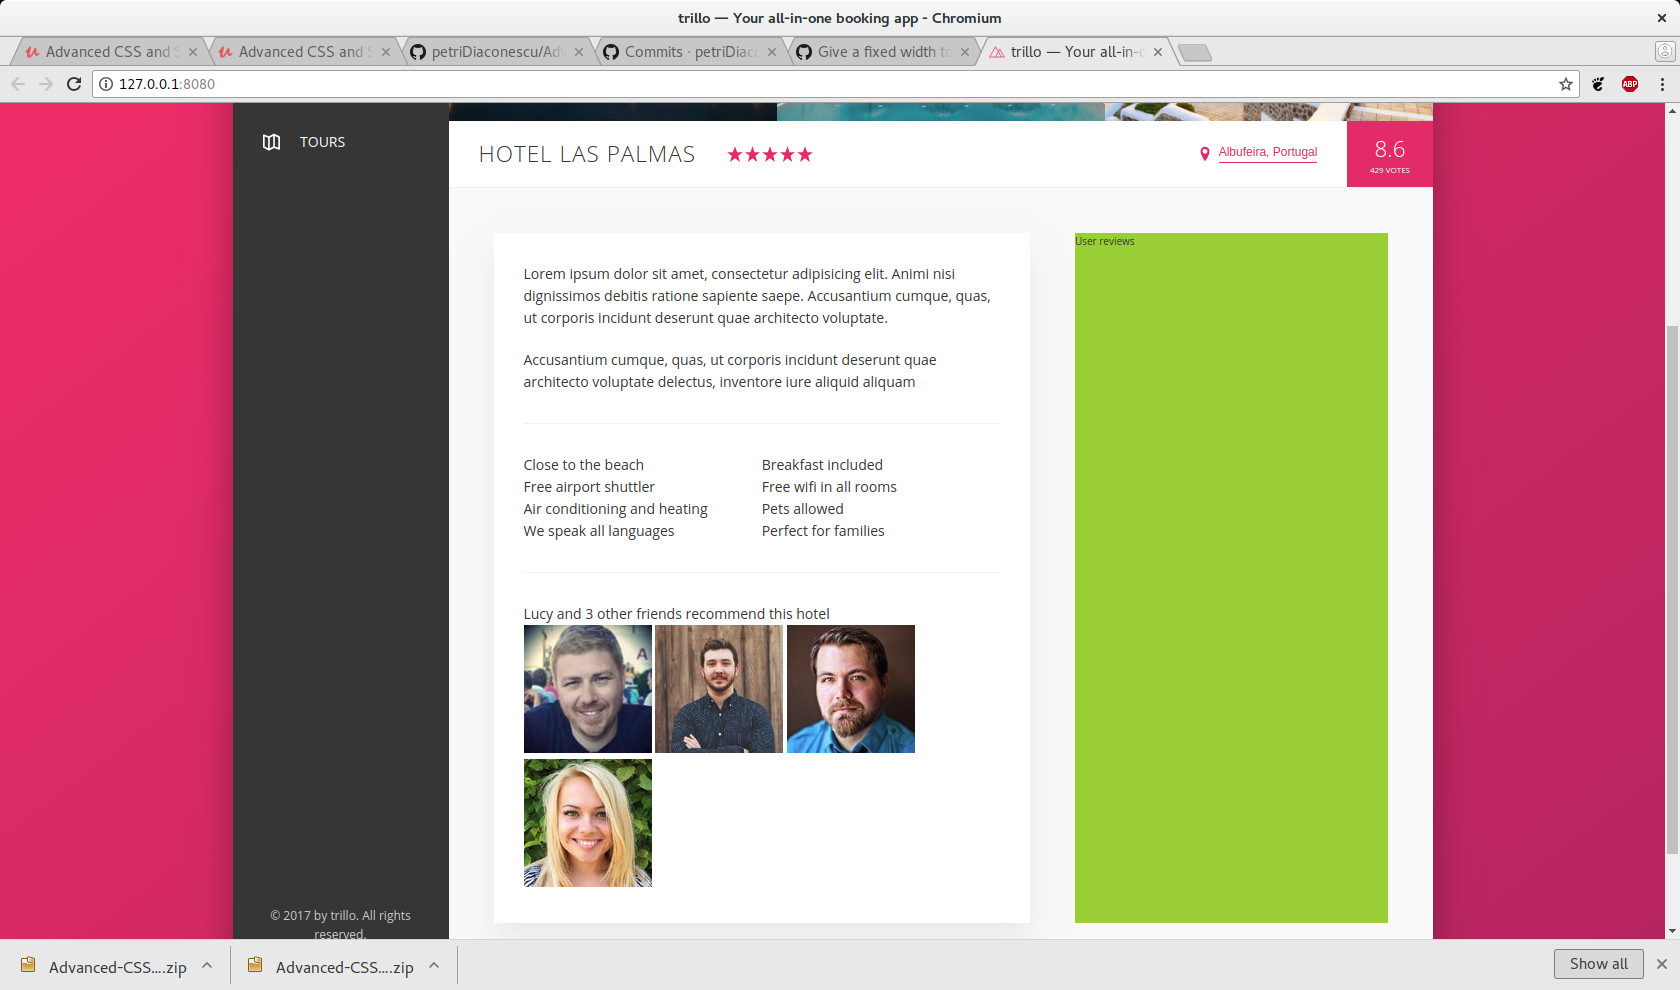
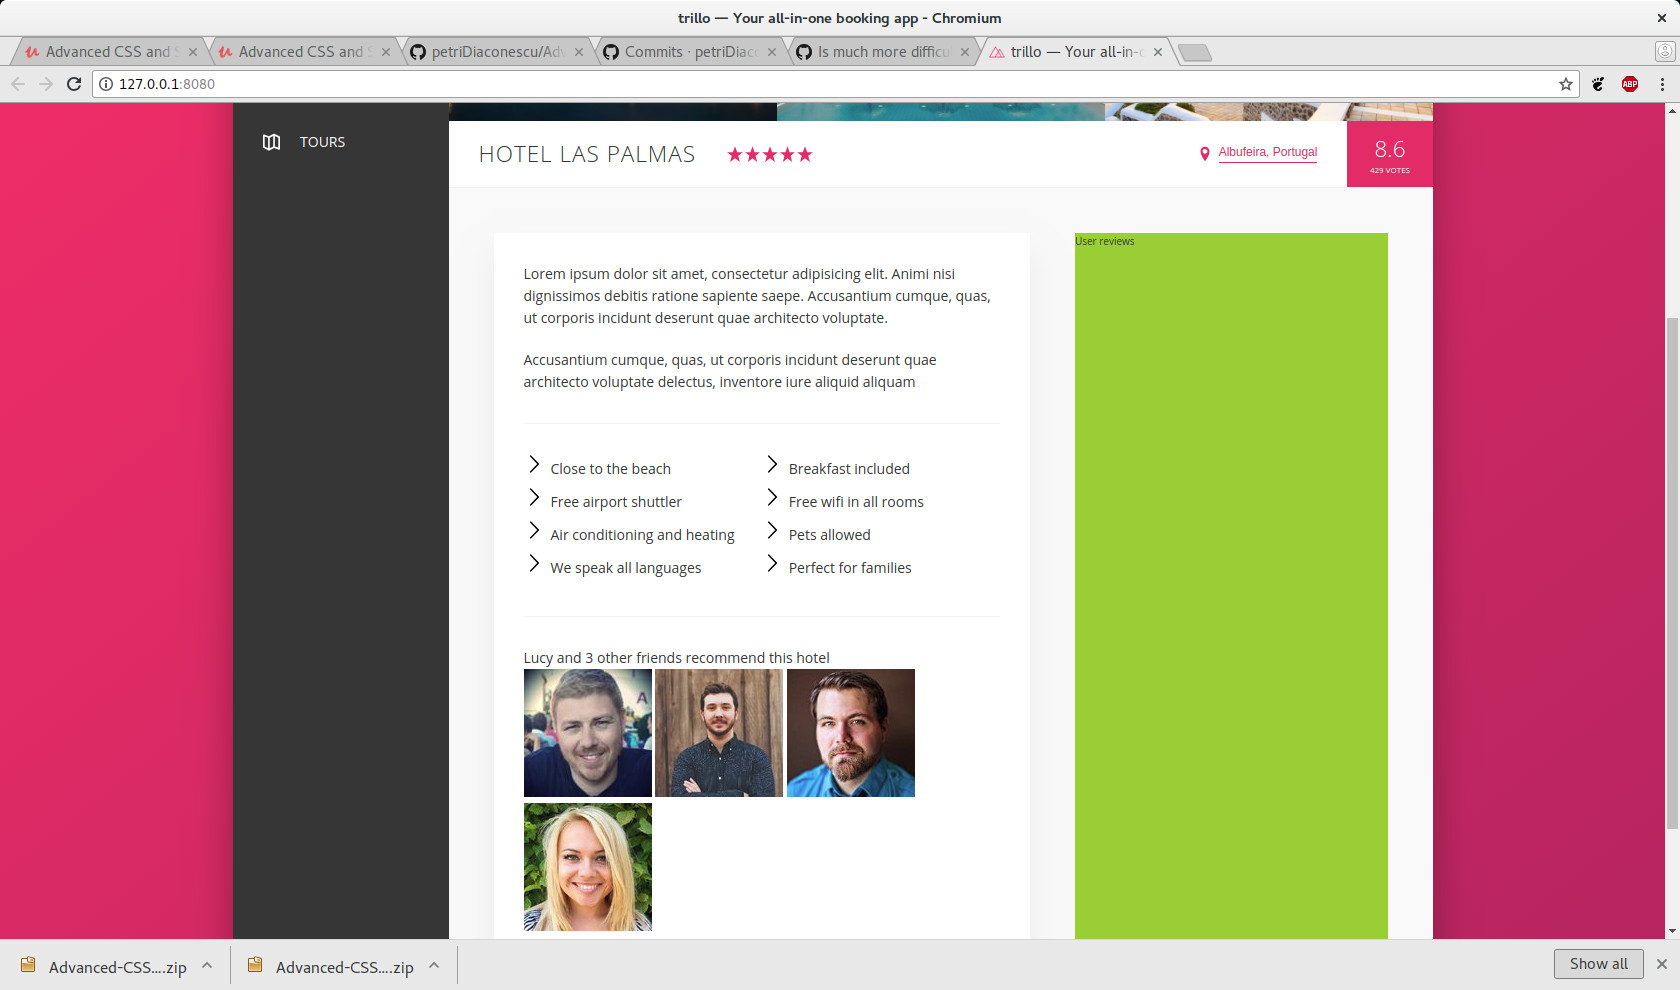
Later will create a feature query that asks if mask property is supported. In that case we'll use commented code. mask-image and mask-size is now only processed in webkit browsers. mask-image allow only the portion where lies the image to be seen through the red(--primary-color) background. -webkit-

diff --git a/sass/_components.scss b/sass/_components.scss
@@ -338,7 +338,16 @@
     height: 2rem;
     width: 2rem;
     margin-right: .7rem;
-    background-image: url(../img/chevron-thin-right.svg);
+    
+    
+    //older browsers
+    //background-image: url(../img/chevron-thin-right.svg);
+    //background-size: cover;
+    
+    //newer browsers - masks
+    background-color: var(--color-primary);
+    -webkit-mask-image: url(../img/chevron-thin-right.svg);
+    -webkit-mask-size: cover;
   }
   
 }
